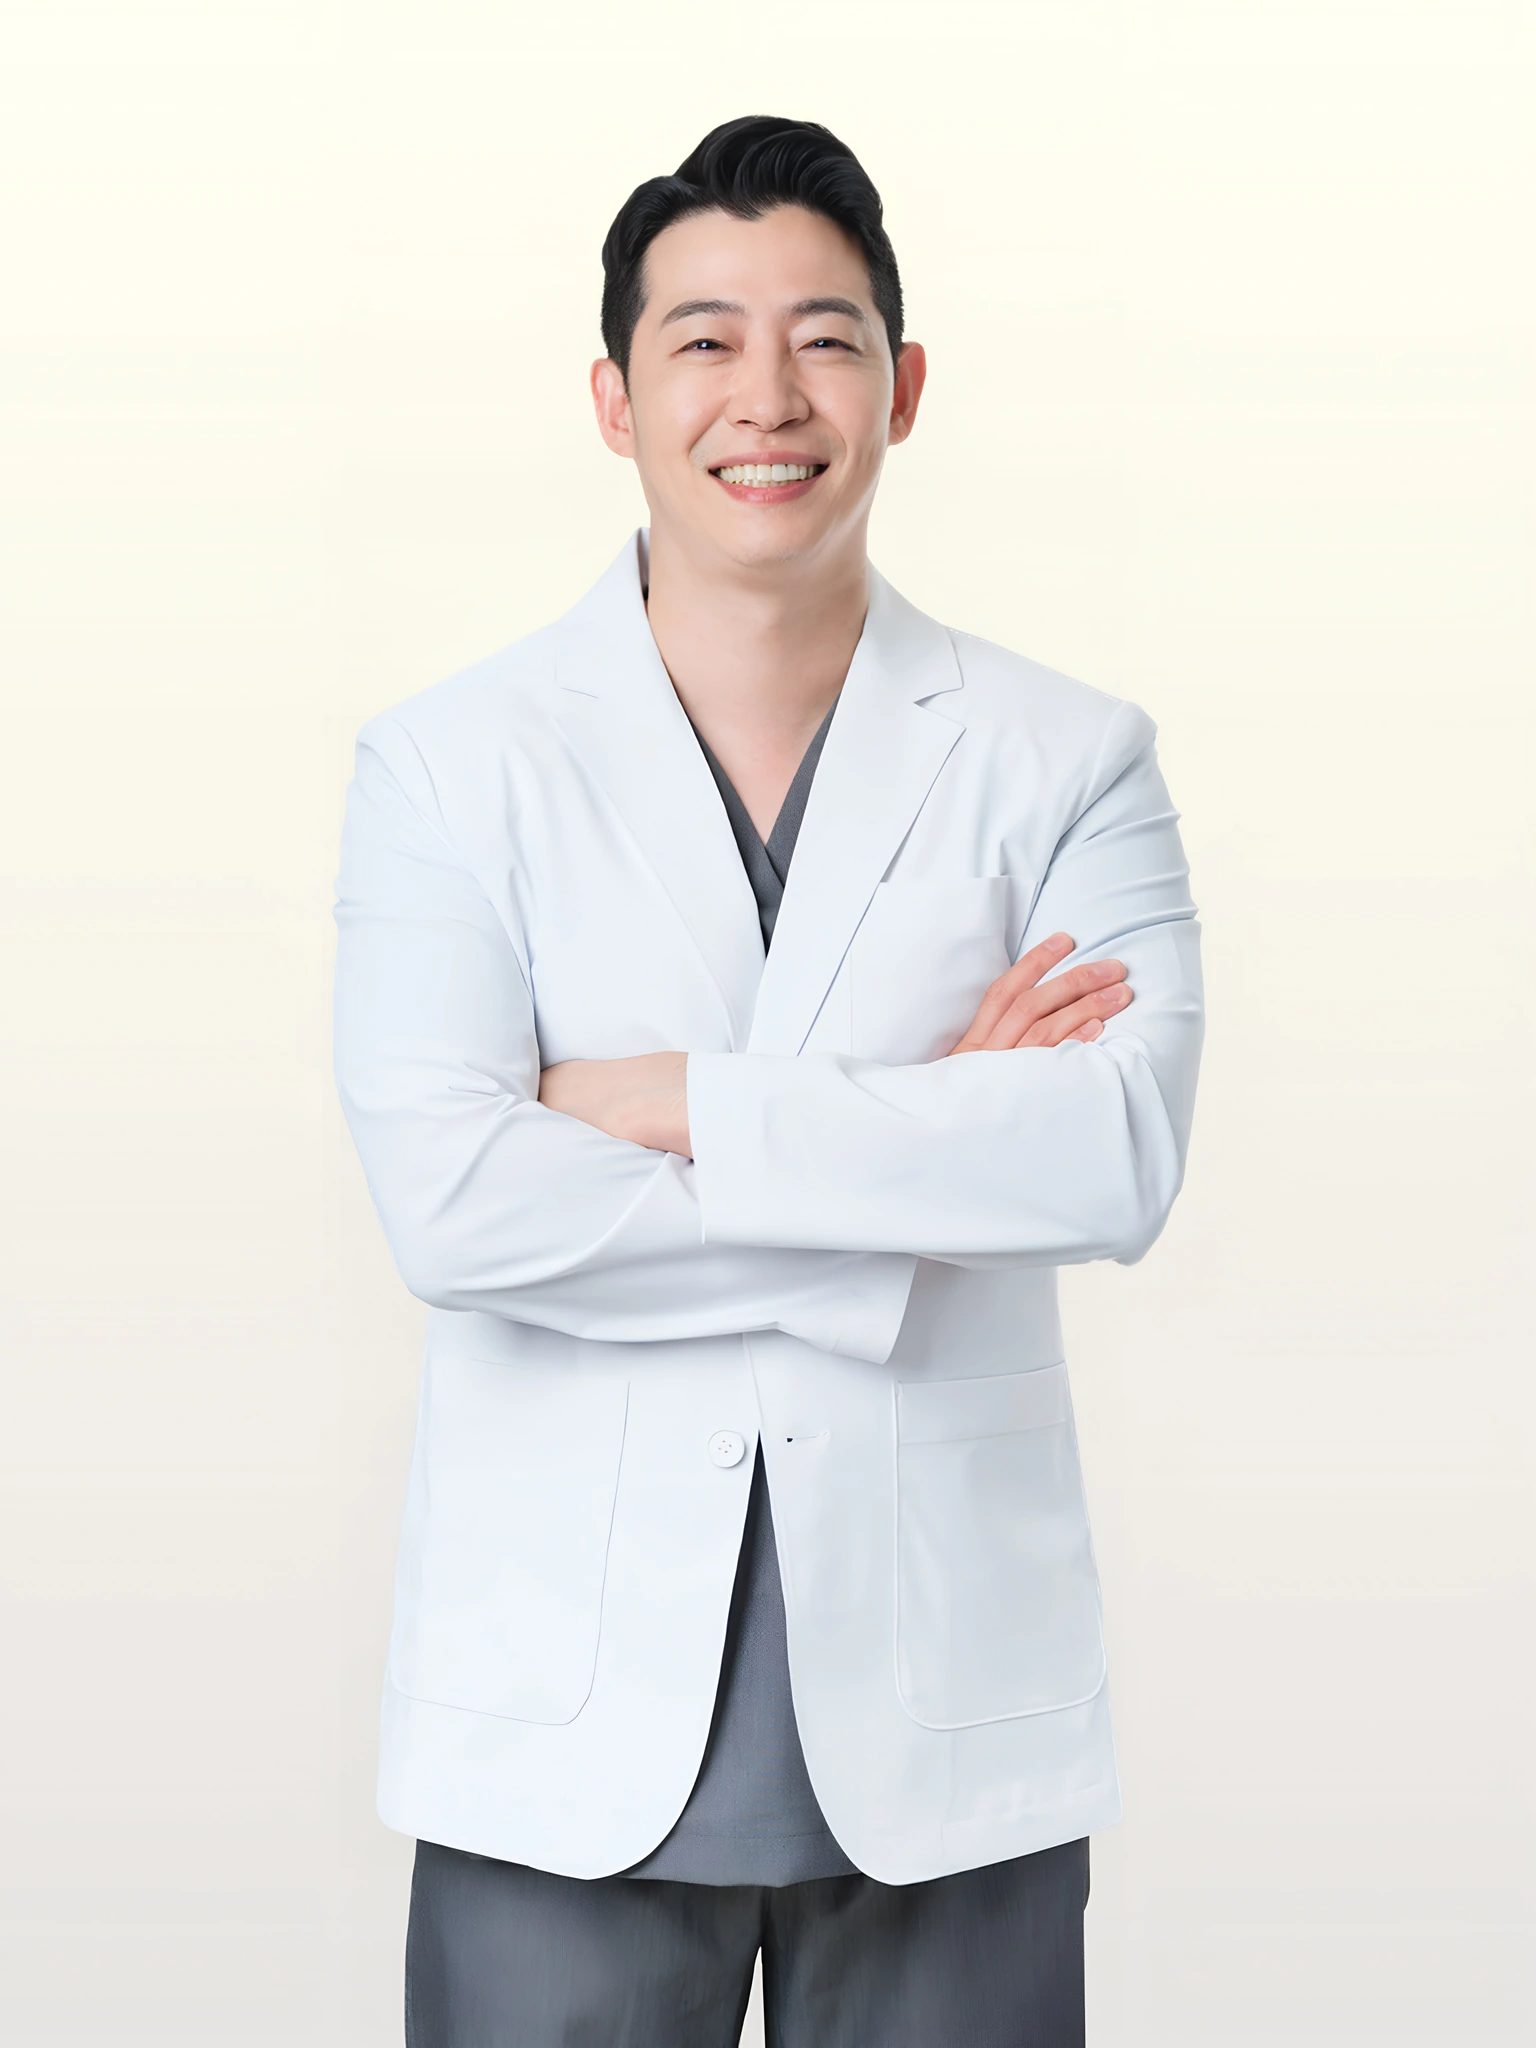
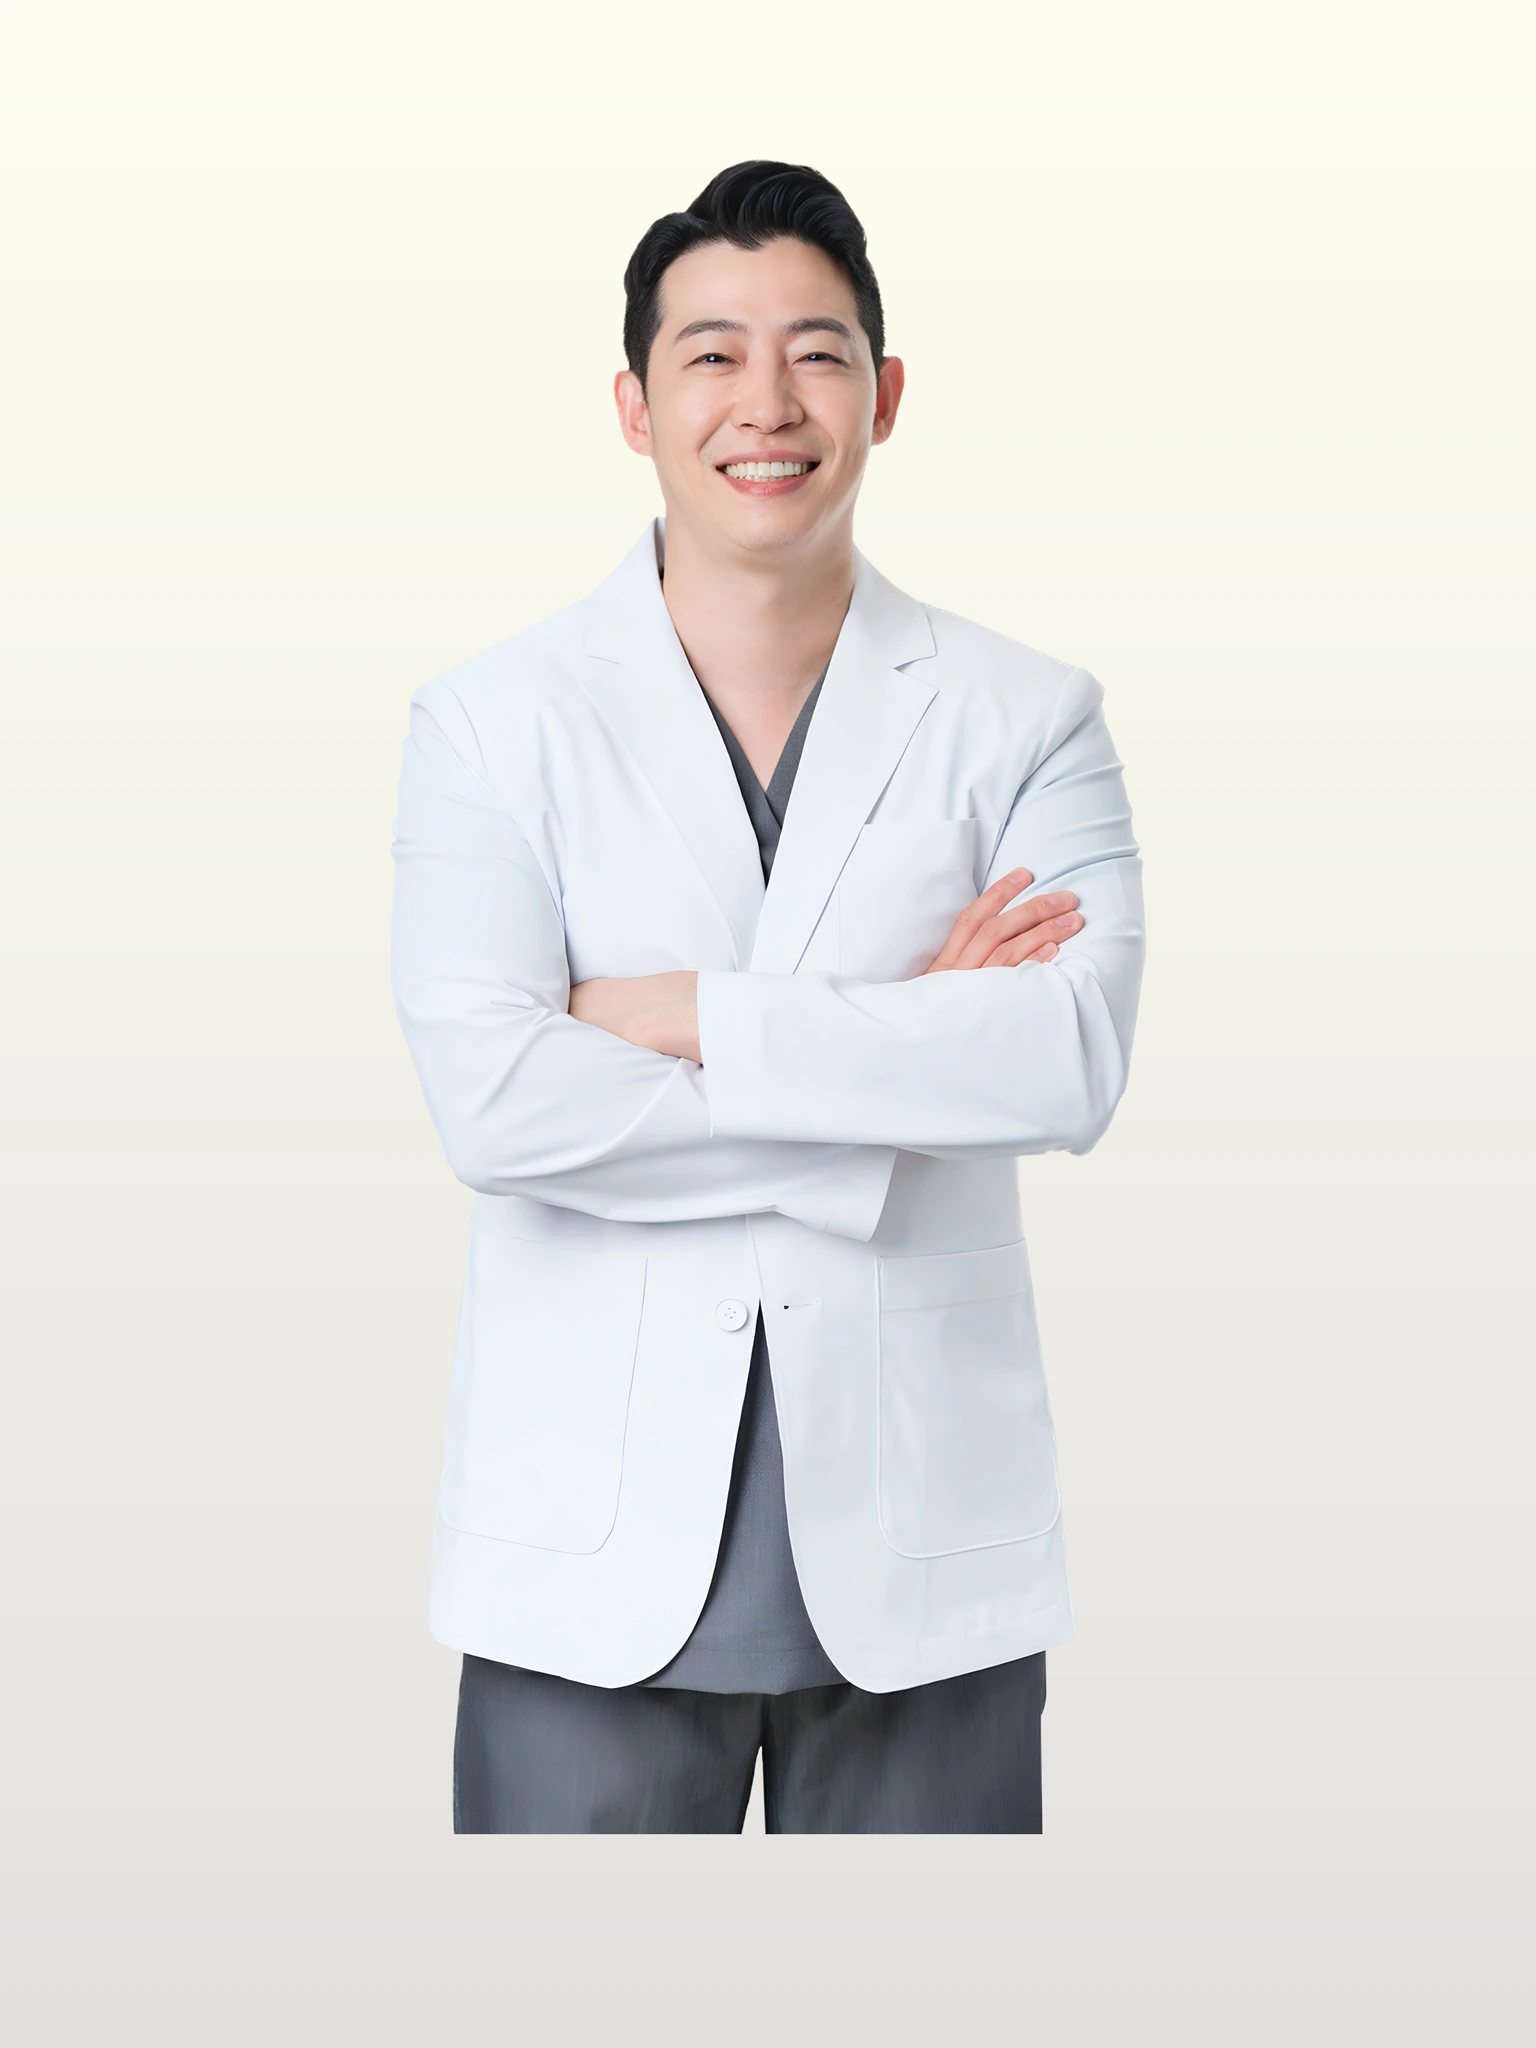
feat(hero): 인물 전체 잘림없이 노출 — 누끼 알파 재합성(인물 82% 높이+넉넉한 여백)+object-fit contain, 자연 화질 유지, 캐시 v=20260621x

Changed region(s): [[0.25, 0.3125, 0.7812, 1.0], [0.375, 0.0312, 0.625, 0.4688]]

diff --git a/public/static/style.css b/public/static/style.css
@@ -2121,7 +2121,7 @@ body::after {
   width: 100%; aspect-ratio: 3/2; object-fit: cover; display: block;
   filter: saturate(.96) contrast(1.02);
 }
-.hh-frame img.hh-portrait { aspect-ratio: 3/4; object-position: center 12%; }
+.hh-frame img.hh-portrait { aspect-ratio: 3/4; object-fit: contain; object-position: center center; background: transparent; }
 .hh-caption {
   display: flex; align-items: baseline; gap: 14px; margin-top: 16px;
   font-size: 13px; color: var(--gray-600);
@@ -2247,7 +2247,7 @@ body:has(.hero--heritage) .site-header:not(.scrolled) .logo .mark-navy { opacity
   .hero--heritage { justify-content: flex-start; padding-top: 130px; }
   .hero--heritage .hh-panel { top: auto; height: 52%; width: 100%; }
   .hh-frame img { aspect-ratio: 3/2; }
-  .hh-frame img.hh-portrait { aspect-ratio: 3/4; object-position: center 18%; }
+  .hh-frame img.hh-portrait { aspect-ratio: 3/4; object-fit: contain; object-position: center center; }
   .hh-frame::before { left: 10px; top: 10px; right: -10px; bottom: -10px; }
 }
 @media (max-width: 640px) {

diff --git a/src/components/layout.ts b/src/components/layout.ts
@@ -290,7 +290,7 @@ export function Footer() {
   </div>
 
   <div class="toast" id="toast"></div>
-  <script src="/static/app.js?v=20260621w"></script>
+  <script src="/static/app.js?v=20260621x"></script>
   `
 }
 
@@ -359,7 +359,7 @@ export function headTags(meta: Meta) {
     <link rel="preconnect" href="https://fonts.gstatic.com" crossorigin />
     ${meta.preloadImage ? raw(`<link rel="preload" as="image" href="${meta.preloadImage}" fetchpriority="high" />`) : ''}
     <!-- 본문 CSS는 렌더 차단 없이 우선 적용 -->
-    <link rel="stylesheet" href="/static/style.css?v=20260621w" />
+    <link rel="stylesheet" href="/static/style.css?v=20260621x" />
     <!-- 한글 동적 서브셋(Pretendard): 실제 사용 글자만 로드 → 4MB→수십KB -->
     <link rel="stylesheet" as="style" crossorigin href="https://cdn.jsdelivr.net/gh/orioncactus/pretendard@v1.3.9/dist/web/variable/pretendardvariable-dynamic-subset.min.css" />
     <!-- 디스플레이/명조/모노: display=swap 으로 FOIT 방지 -->
